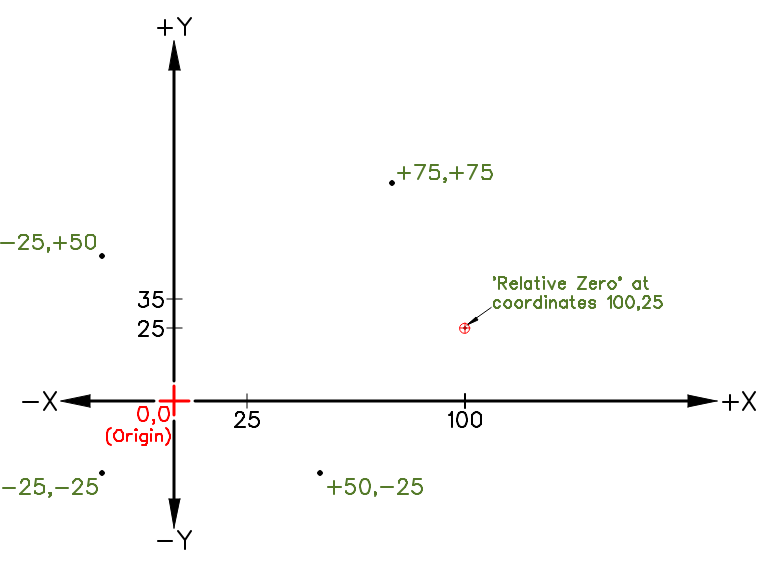
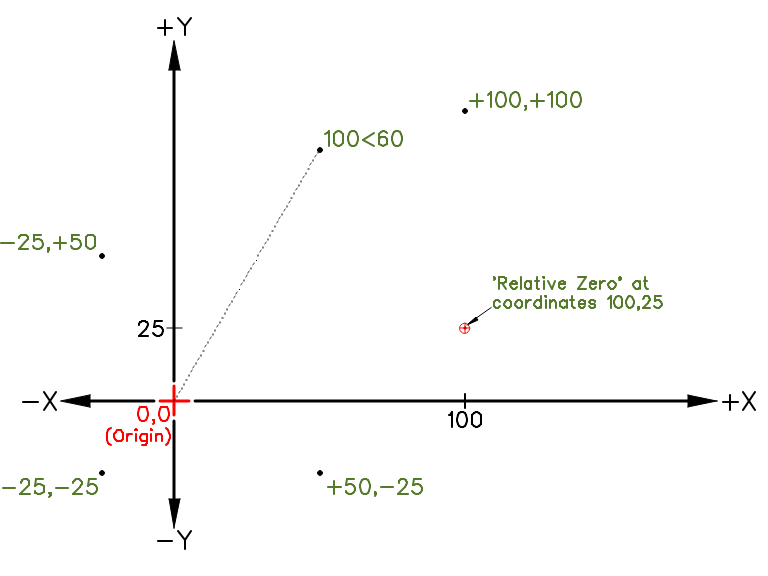
coords.png revision

diff --git a/ref/fundamentals.rst b/ref/fundamentals.rst
@@ -28,7 +28,27 @@ There are two ways to define coordinates in LibreCAD.  They can be placed by spe
 
 All coordinates are relative to the *absolute origin* in the drawing.  It is where the X and Y axes cross each other and represented by a red cross.  The coordinates at this point are 0,0.  Every entity drawn can be located in relation to this origin.
 
-LibreCAD also uses a *Relative Zero Point*.  It is the last point set when creating an entity.  It is represented by a small red circle within the drawing.  The Relative Zero Point is set temporarily to a new location in a drawing so that a subsequent X and Y coordinates of the next entity can be placed using :ref:`relative coordinates <relative>`.  
+LibreCAD also uses a *Relative Zero Point*.  It is the last point set when creating an entity.  It is represented by a small red circle within the drawing.  The Relative Zero Point is set temporarily to a new location in a drawing so that a subsequent X and Y coordinates of the next entity can be placed using :ref:`relative coordinates <relative>`.
+
+.. only:: html
+
+    .. figure:: /images/coords.png
+        :align: center
+        :scale: 67
+        :alt: Coordinate
+
+.. only:: latex
+
+    .. figure:: /images/coords.png
+        :align: center
+        :scale: 50
+        :alt: Coordinate
+
+.. actual image size 768px x 576px
+
+.. Force end of left / right text wrap
+.. include:: /inclFiles/eoWrap.rst
+
 
 
 Angles
@@ -87,6 +107,7 @@ The *Cartesian* coordinate system is commonly used in most CAD programs.  Cartes
 .. Force end of left / right text wrap
 .. include:: /inclFiles/eoWrap.rst
 
+
 .. only:: html
 
     .. figure:: /images/byPolar.png
@@ -102,26 +123,6 @@ The *Cartesian* coordinate system is commonly used in most CAD programs.  Cartes
         :alt: Polar Coordinates
 
 .. actual image size 510px x 382px
-
-
-Examples of Cartesian coordinates:
-
-.. only:: html
-
-    .. figure:: /images/coords.png
-        :align: center
-        :scale: 67
-        :alt: Coordinate
-
-.. only:: latex
-
-    .. figure:: /images/coords.png
-        :align: center
-        :scale: 50
-        :alt: Coordinate
-
-.. actual image size 768px x 576px
-
 
 Polar
 `````
